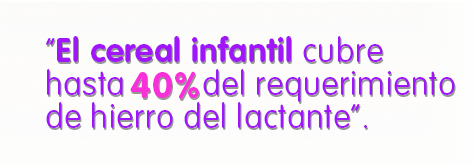
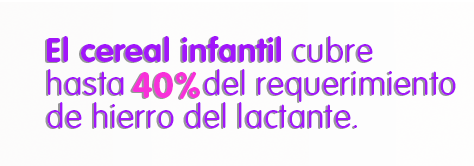
Version Final 2D (ajustes pendientes)

Changed region(s): [[0.0886, 0.4217, 0.9747, 0.7831], [0.0886, 0.2108, 0.827, 0.3916]]

diff --git a/index.html b/index.html
@@ -54,7 +54,7 @@
 								<span class="s2-txt">&nbsp;&nbsp;
 									<span class="nestleLi">a las mam&aacute;s de sus</span> peque&ntilde;os pacientes
 								</span> <br />&nbsp;
-								incluir <span class="throwMed">cereales</span> en su dieta ?</p>
+								incluir <span class="throwMed">cereales</span> en su dieta?</p>
 						</div>
 					</div>
 					<div class="slide2-siNo">
@@ -71,10 +71,10 @@
 					<div class="slide3-barra hide  visible">
 						<div class="slide3-titulo">
 							<p class="throwBldBig hide  visible">La ablactaci&oacute;n</p>
-							<p class="nestleLi hide">Despu&eacute;s de los 6 meses, <span class="nestleBld">la leche materna deja de ser 
+							<p class="nestleLi hide visible">Despu&eacute;s de los 6 meses, <span class="nestleBld">la leche materna deja de ser 
 								suficiente para satisfacer las necesidades nutrimentales 
 								del beb&eacute;</span> por lo que se recomienda introducir alimentos 
-								complementarios</p>
+								complementarios.</p>
 						</div>
 					</div>
 					<div class="slide3-texto">
@@ -224,7 +224,7 @@
 					<div class="slide9-titulo">
 						<p class="nestleBld hide visible"><span class="throwBld">El cereal</span> previene la obesidad <br/>
 						y el sobrepeso</p>
-						<p class="nestleLi hide visible">En la ablactaci&oacute;n se inicia la adquisici&oacute;n de h&aacute;bitos alimneticios que son la mejor estrategia para prevenir la obesidad y las enfermedades metab&oacute;licas</p>
+						<p class="nestleLi hide visible">En la ablactaci&oacute;n se inicia la adquisici&oacute;n de h&aacute;bitos alimenticios que son la mejor estrategia para prevenir la obesidad y las enfermedades metab&oacute;licas.</p>
 					</div>
 				</div>
 				<div class="slide9-mama">
@@ -278,8 +278,8 @@
 			<div class="slide10">
 				<div class="slide10-pleca hide visible">
 					<div class="slide10-titulo">
-						<p class="nestleBld hide visible"><span class="throwBld">El cereal</span> 
-							es de f&aacute;cil digesti&oacute;n</p>
+						<p class="nestleBld hide visible"><span class="throwBld">Los cereales</span> 
+							son de f&aacute;cil digesti&oacute;n:</p>
 						<p class="nestleLi hide visible">Ya que pasan a trav&eacute;s de un proceso de <span class="nestleBld">hidr&oacute;lisis enzim&aacute;tica, 
 						</span> que <span class="nestleBld">proporciona diferentes beneficios:</span></p>
 					</div>
@@ -309,7 +309,7 @@
 					<div class="slide12-titulo">
 						<p class="throwBld hide visible">Los cereales infantiles</p>
 						<p class="nestleLi hide visible">adem&aacute;s de ser <span class="nestleBld">nutrimentalmente 
-							superiores</span> a otros alimentos, son un medio de consumo de fibras: que ayudan 
+							superiores</span> a otros alimentos, son un medio de consumo de fibras, que ayudan 
 							en el manejo de la constipaci&oacute;n y <span class="nestleBld">contribuyen a 
 							regular la motilidad intestinal.</span></p>
 					</div>
@@ -356,7 +356,7 @@
 						<div class="slide11-titulo hide visible">
 							<p class="nestleBld">¿Le gustar&iacute;a conocer que hace</p>
 							<p class="nestleLi">de los <span class="throw">cereales infantiles</span> 
-								<span class="nestleBld">Nestl&eacute;</span>&reg; un alimento clave 
+								<span class="nestleBld">Nestl&eacute;</span><sup style="vertical-align: super; font-size: 20px">&reg;</sup> un alimento clave 
 								<span class="nestleLi">en la etapa de ablactaci&oacute;n de sus peque&ntilde;os pacientes?</span></p>
 						</div>
 					</div>
@@ -555,7 +555,7 @@
 			<div class="slide15">
 				<div class="slide15-pleca hide visible">
 					<div class="slide15-titulo hide visible">
-						<p class="nestleLi">Usted puede <span class="nestleBld">ayudar a prevenir</span> diversos problemas alimentarios con la</p>							<p class="throwBld">linea de cereales infantiles <span class="nestleBld">Nestle&reg;</span></p>
+						<p class="nestleLi">Usted puede <span class="nestleBld">ayudar a prevenir</span> diversos problemas alimentarios con la</p>							<p class="throwBld">l&iacute;nea de cereales infantiles <span class="nestleBld">Nestl&eacute;<sup style="vertical-align: super; font-size: 20px">&reg;</sup></span></p>
 					</div>
 				</div>
 				<div class="slide15-contenedor">

diff --git a/css/sitio.css b/css/sitio.css
@@ -85,7 +85,7 @@
 }
 .slide1-energia{
 	height: 260px;
-	width: 520px;
+	width: 522px;
 	position: absolute;
 }
 div.slide1-energia p.nestleBld {
@@ -355,7 +355,7 @@ div.slide5-chavo{
 	background: url(images/normal.png) no-repeat;
 	width: 280px;
 	height: 450px;
-	margin-left: 130px;
+	margin: 22px 0 0 61px;
 }
 div.slide5-texto{
 	background: url(../chose-slide-5/1024x768/Pleca_azul.png) no-repeat;
@@ -774,7 +774,6 @@ div.slide10-titulo p.nestleBld{
 	line-height: 65px;
 	font-size: 50px;
 	color: #FFC211;
-	letter-spacing: 2px;
 	text-shadow: 1px 2px #999999;
 }
 div.slide10-titulo p.nestleBld span{ font-size: 72px; }
@@ -811,7 +810,6 @@ div.slide10-content-derecha-fondo{
 	width: 599px;
 	height: 434px;
 	margin-left: -133px;
-    margin-top: 28px;
 }
 div.slide10-content-derecha-fondo-bullets{
 	width: 441px;
@@ -847,14 +845,13 @@ div.slide11-ventanas{
 div.slide11-ventanas-pleca{
 	background: url(../chose-slide-12/1024x768/Pleca_transparente.png) no-repeat;
 	width: 1024px;
-	height: 361px;
+	height: 257px;
 }
 div.slide11-titulo{
 	width: 920px;
 	height: 157px;
 	float: left;
-	margin-left: 75px;
-	margin-top: 120px;
+	margin: 57px 0 0 75px;
 	line-height: 40px;
 }
 div.slide11-titulo p.nestleBld{ color: #B6D751; font-size: 58px; line-height: 75px;}
@@ -864,6 +861,7 @@ div.slide11-titulo p.nestleLi span.nestleLi { color: #9351D7; font-size: 37px; }
 div.slide11-ventanas-contenedor{
 	width: 1024px;
 	height: 410px;
+	margin: 85px 0 0;
 }
 div.slide11-ventanas-contenedor-izquierda{
 	width: 512px;
@@ -883,6 +881,7 @@ div.slide11-ventanas-contenedor-derecha{
 	width: 512px;
 	height: 410px;
 	float: right;
+	margin: 11px 0 0;
 }
 div.slide11-ventanas-contenedor-derecha-cucharas{
 	margin-left: 130px;
@@ -1021,7 +1020,7 @@ div.slide13-ventanas-pleca{
 	height: 318px;
 }
 div.slide13-ventanas-pleca-titulo{
-	width: 619px;
+	width: 634px;
 	height: 161px;
 	float: left;
 	margin-top: 115px;
@@ -1095,7 +1094,7 @@ div.slide14-ventanas-pleca{
 	height: 318px;
 }
 div.slide14-ventanas-pleca-titulo{
-	width: 625px;
+	width: 634px;
 	height: 158px;
 	float: left;
 	margin-left: 80px;
@@ -1181,8 +1180,7 @@ div.slide15-titulo{
 	width: 921px;
 	height: 170px;
 	float: left;
-	margin-top: 65px;
-	margin-left: 50px;
+	margin: 53px 0 0 50px;
 	letter-spacing: 1.1px;
     line-height: 50px;
     color:	#ffffff;
@@ -1219,7 +1217,7 @@ div.slide16-pleca-logo{
 	margin-left: 80px;
 }
 div.slide16-pleca-titulo{
-    width: 675px;
+    width: 689px;
     height: 87px;
     float: left;
     margin-top: 100px;
@@ -1272,7 +1270,7 @@ div.slide16-contenedor-bote3-texto3{
 	width: 142px;
 	height: 182px;
 	float: left;
-	margin-top: -460px;
+	margin-top: -260px;
 }
 div.slide16-contenedor-bote4{
 	background: url(../chose-slide-16/1024x768/Gerber_arroz_17.png) no-repeat;
@@ -1334,7 +1332,7 @@ div.slide17-pleca-logo{
 	margin-left: 50px;
 }
 div.slide17-pleca-titulo{
-	width: 681px;
+	width: 689px;
 	height: 95px;
 	float: left;
 	margin-top: 95px;
@@ -1453,7 +1451,7 @@ div.slide18-ventanas-pleca-titulo{
 	height: 130px;
 	float: left;
 	margin-top: 185px;
-	margin-left: 170px;
+	margin-left: 45px;
 	font-size: 89px;line-height: 111px;
 	color: #FD8504;
 }

diff --git a/js/animaciones.js b/js/animaciones.js
@@ -191,7 +191,7 @@ function slide6(){
 		$('.slide6-titulo').show('drop',{direction: 'up'},1500) //La cantidad
 	},2000);
 	setTimeout(function(){
-		$('.slide6-texto').show('puff',1000) //Piramide verduras
+		$('.slide6-texto').show('drop',{direction: 'down'},1000) //Piramide verduras
 	},4000);
 	setTimeout(function(){
 		$('.slide6-mantel-pleca-babero').addClass('animated pulse') //Piramide verduras
@@ -355,11 +355,11 @@ function slide10(){
 
 function slide11(){
 	setTimeout(function(){
-		$('.slide11-ventanas').show('drop',{direction: 'up'},1000) //La energia
+		$('.slide11-ventanas').show('drop',{direction: 'down'},1000) //La energia
 	},500);
 	setTimeout(function(){
 		$('.slide11-ventanas-pleca').show('drop',{ direction: 'up' },1500)
-	},2000);
+	},1000);
 	setTimeout(function(){
 		$('.slide11-titulo').show('fade',1500) //La energia
 	},3000);
